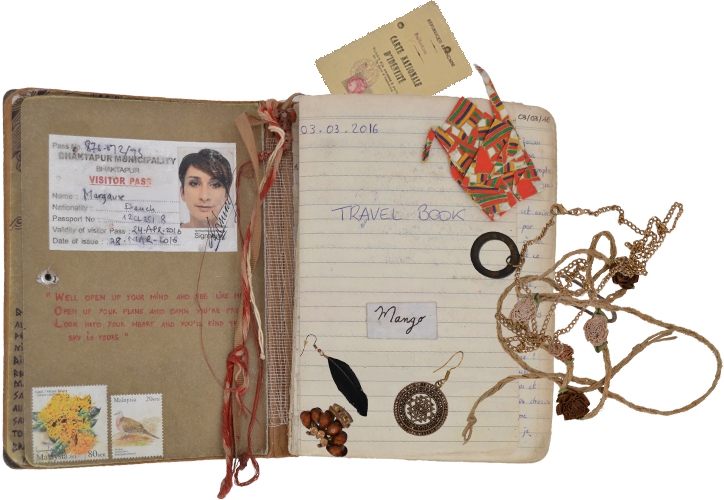
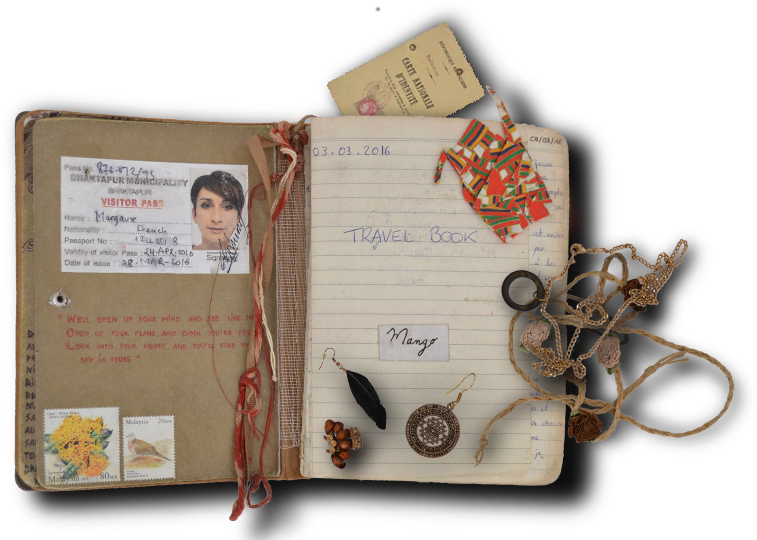
front with small adjustments

diff --git a/app/assets/stylesheets/dashboard/index.scss b/app/assets/stylesheets/dashboard/index.scss
@@ -4,16 +4,15 @@
 @import "img";
 @import "pass";
 @import "shop";
-@import "links";
 @import "fonts";
 $my_beautydemo_font: 'beautydemo';
 $my_lemourserif_font: 'lemourserif';
 $my_pimpernel_font: 'pimpernel';
 
 body {
-  background-image: url('https://media.gettyimages.com/photos/abstract-felt-background-picture-id497614916?b=1&k=6&m=497614916&s=612x612&w=0&h=-cZ9CHmoFVIpd6A0WPiIPTM5hzqcgQGVK_jP5y_1N_A=');
+  background-image: url('background_dashboard');
   background-attachment:fixed;
-  background-size: contain;
+  background-size: cover;
 }
 
 .nav {
@@ -35,14 +34,22 @@ body {
 }
 
 a {
-  color: white;
+  color: rgb(237, 228, 213);
+  text-decoration: none;
 }
 
 a:hover {
-  color: grey;
+  color: rgb(206,182,144);
 }
 
 .links {
+  width: 100%;
+  text-align: center;
   font-family: $my_pimpernel_font;
-  margin-left: 10px;
+  position: absolute;
+  bottom: 0;
+  z-index: 20;
+  font-size: 1.2rem;
+  margin-left: 3%;
+  z-index: -1;
 }

diff --git a/app/assets/stylesheets/dashboard/_pass.scss b/app/assets/stylesheets/dashboard/_pass.scss
@@ -6,7 +6,7 @@
   background-image: url('pass.png');
   background-repeat: no-repeat;
   position: absolute;
-  bottom: 2%;
+  bottom: 3%;
   right: 32%;
   z-index: 1;
   transform: rotate(-2deg);
@@ -50,5 +50,5 @@
   background-image: url('btn-pass.png');
   background-repeat: no-repeat;
   position: relative;
-  z-index: 2;
+  z-index: 3;
 }
